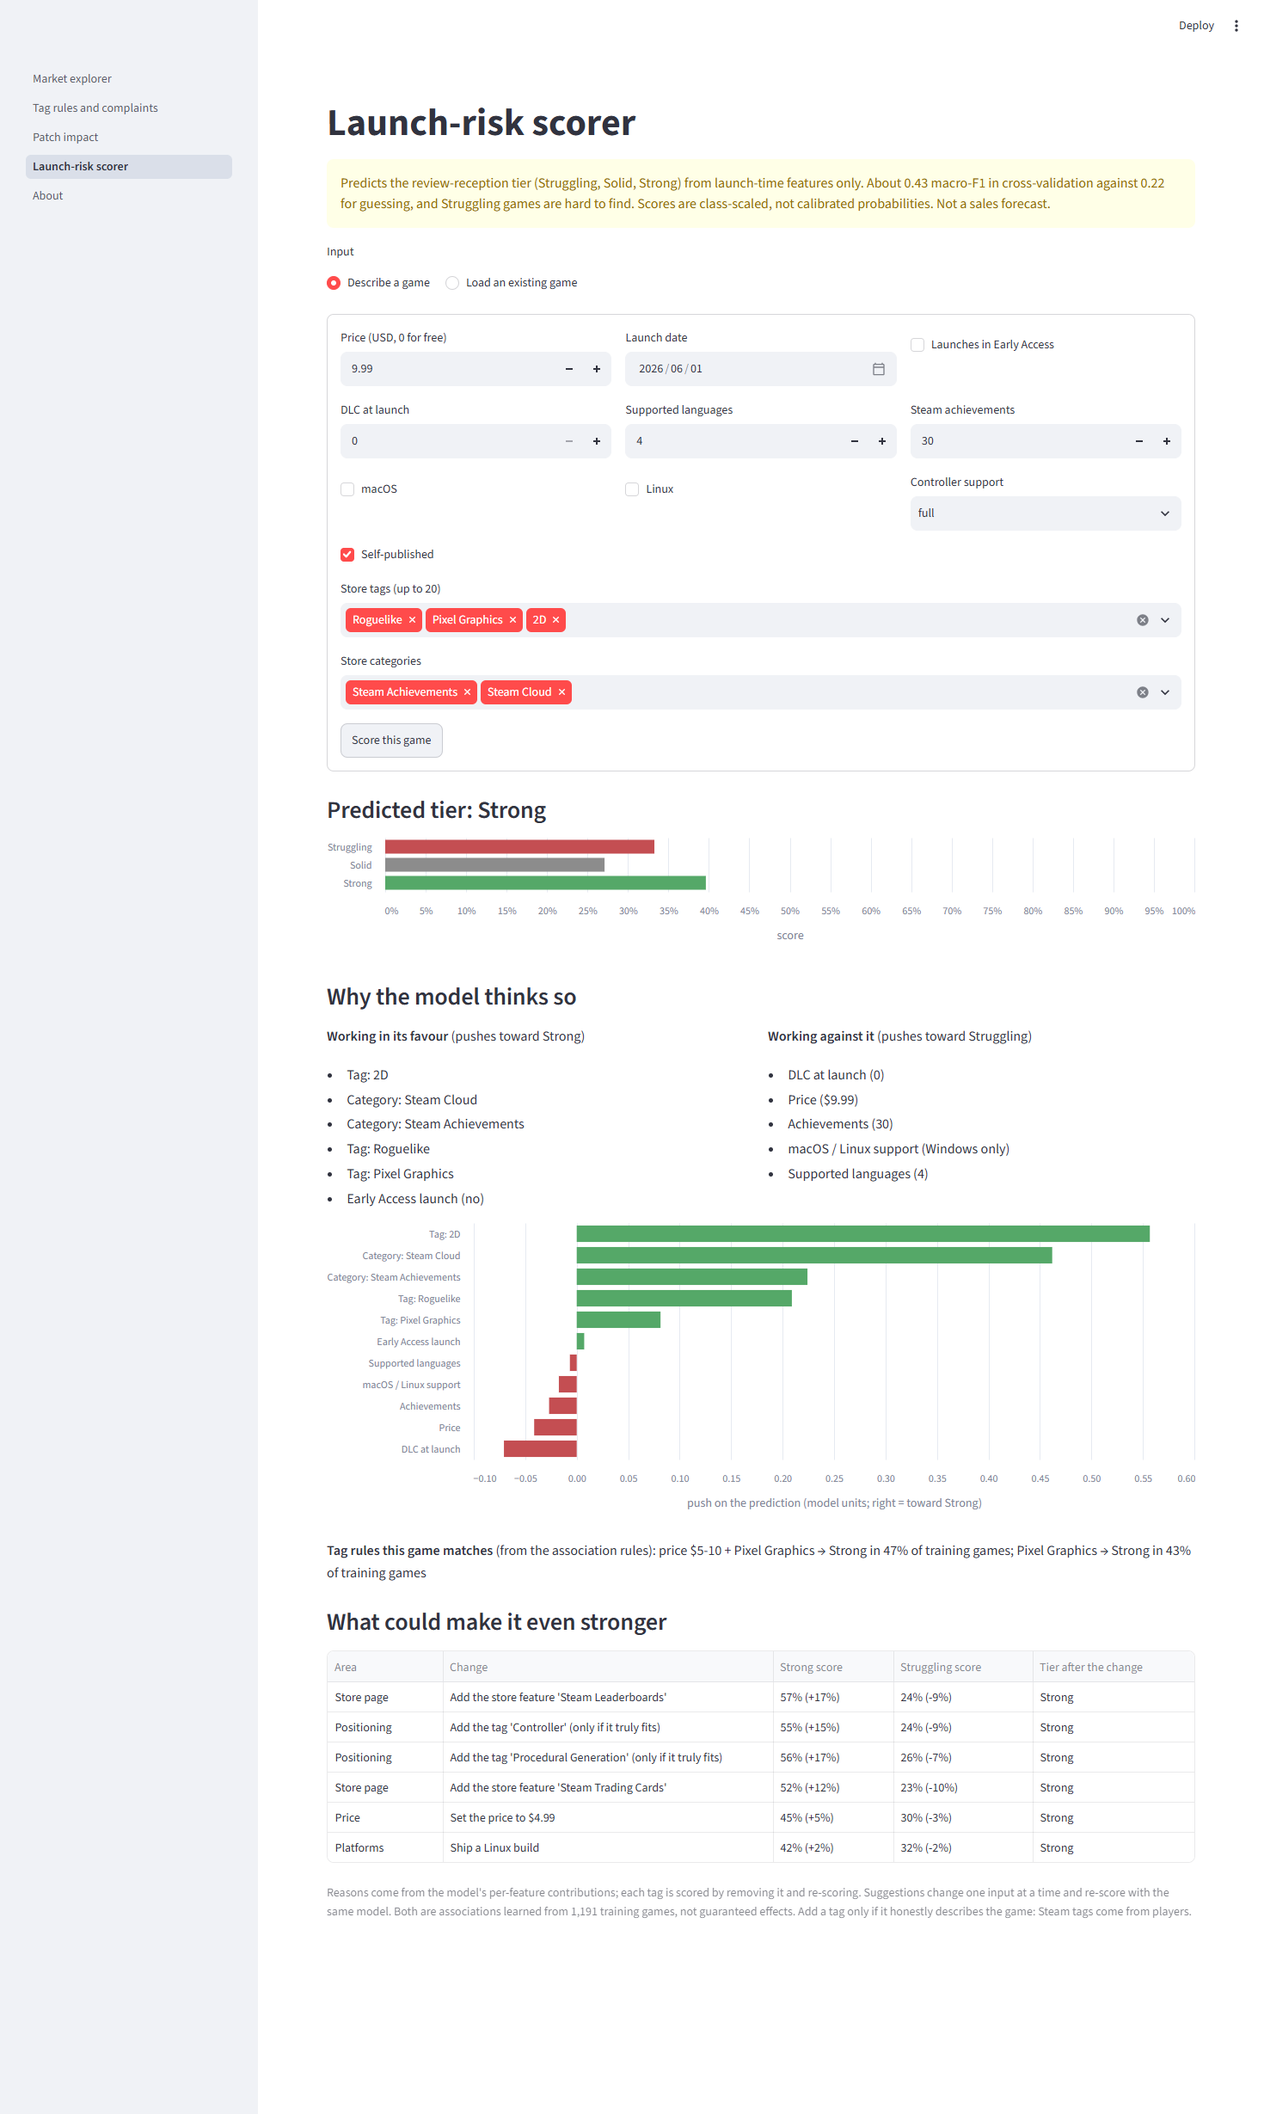
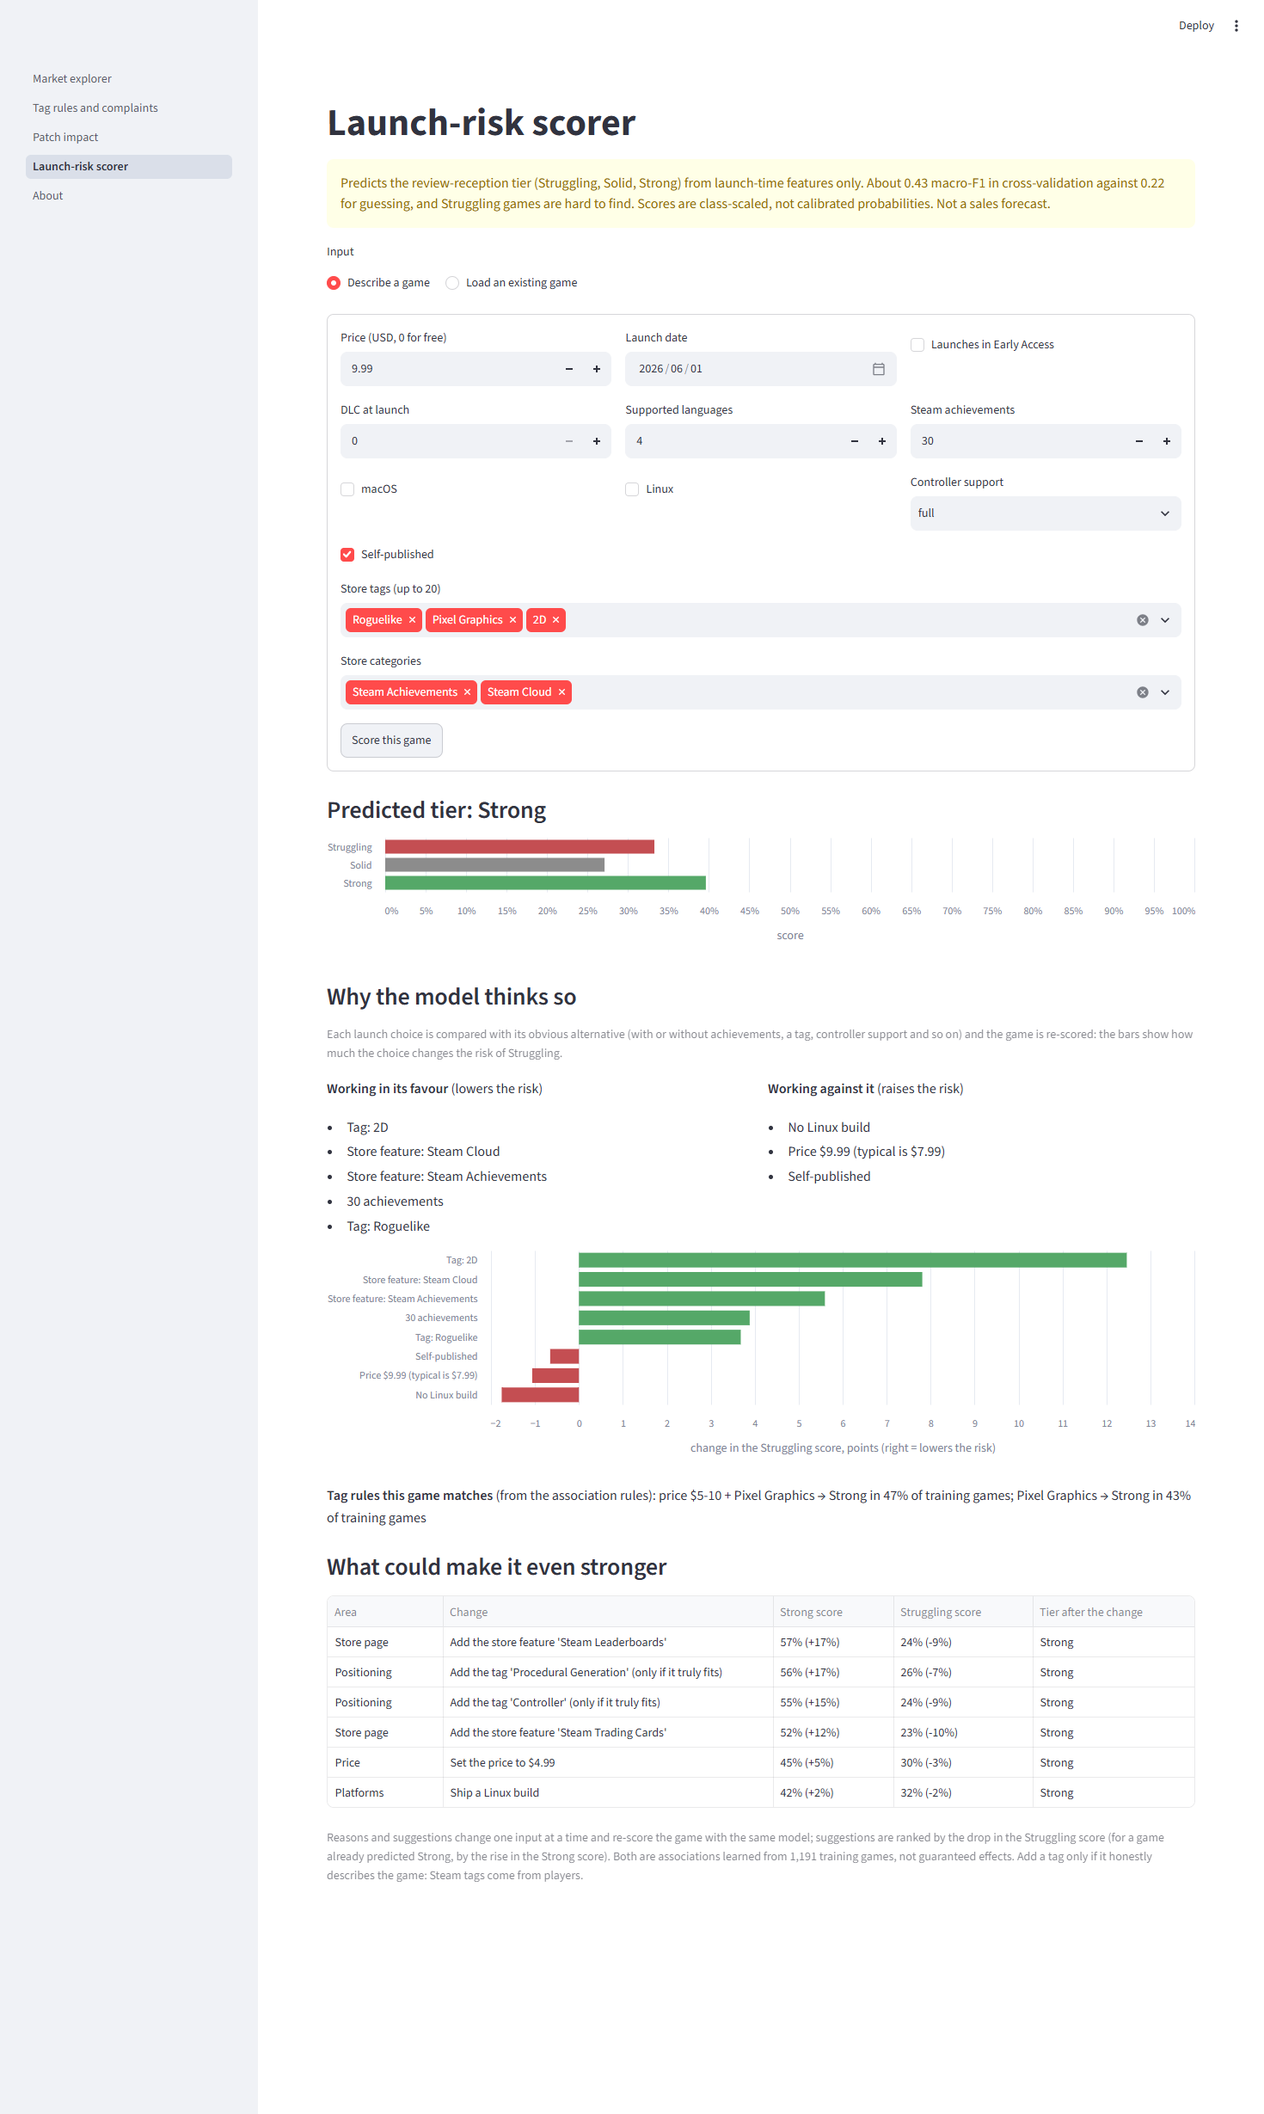
Scorer explanations: measure each choice by its effect on the Struggling risk
Each launch choice is now compared with its obvious alternative (with or without achievements,
controller support, a tag, ...) and re-scored; the effect is the change in the Struggling score.
The earlier Strong-minus-Struggling measure listed choices such as 30 achievements as harmful
because they move a game from Strong toward Solid while lowering its risk. Suggestions are ranked
by the drop in the Struggling score, or by the rise in the Strong score for a Strong game.
Dollar signs in factor names are escaped so Streamlit does not render them as maths.

diff --git a/src/dashboard/explain.py b/src/dashboard/explain.py
@@ -1,12 +1,14 @@
 """Explain a launch-risk prediction: why a game scores as it does, and which single changes would help.
 
 Review 2 feedback: the scorer showed only a tier. This module adds
-  explain(game)   the drivers of the prediction, from XGBoost's per-feature contributions, grouped into
-                  readable factors; store tags are scored one by one (remove the tag, re-score)
-  suggest(game)   single launch-time changes (price, languages, achievements, controller, platforms,
-                  categories, tags) re-scored by the same model and ranked by how much they raise
-                  the Strong score and lower the Struggling score
-Both are associations learned from 1,191 training games, not causal effects.
+  explain(game)          each launch choice compared with its obvious alternative (achievements or none,
+                         controller support or none, a tag or not, ...): the change in the Struggling score
+                         the scorer shows, re-scored by the same model
+  suggest(game, tier)    single launch-time changes ranked by how much they lower the Struggling score
+                         (or, for a game already predicted Strong, raise the Strong score)
+The scorer is about launch risk, so effects are measured on the Struggling score. A choice can lower that
+risk and still move a game from Strong toward Solid; measuring "Strong minus Struggling" made such choices
+look harmful. Both functions report associations learned from 1,191 training games, not causal effects.
 """
 from __future__ import annotations
 
@@ -21,17 +23,6 @@ from src.dashboard.featurize import _items, featurize_game
 from src.dashboard.risk import ROOT, TIER_NAMES, load_scorer
 
 STRUGGLING, STRONG = 0, 2
-GROUPS = {
-    "Price": ["price_usd", "price_tier", "is_free"],
-    "Launch timing": ["launch_year", "launch_quarter", "launch_before_window"],
-    "Early Access launch": ["launched_in_early_access"],
-    "DLC at launch": ["n_dlc"],
-    "Supported languages": ["n_supported_languages"],
-    "Achievements": ["n_achievements", "has_achievements"],
-    "macOS / Linux support": ["platform_mac", "platform_linux"],
-    "Controller support": ["controller_support_level"],
-    "Self-published": ["self_published"],
-}
 EXTRA_CATEGORIES = ["Steam Achievements", "Steam Cloud", "Steam Trading Cards", "Steam Leaderboards", "Full controller support", "Remote Play Together"]
 
 
@@ -40,68 +31,71 @@ def _rule_tags() -> list[str]:
     return sorted({t[4:] for s in r.antecedents_str for t in s.split(" + ") if t.startswith("tag:")})
 
 
-def _frame(games: list[dict[str, Any]], features: list[str]) -> pd.DataFrame:
-    return pd.DataFrame([featurize_game(g) for g in games]).loc[:, features].astype(float)
+def _median_price() -> float:
+    g = pd.read_csv(ROOT / "data" / "dashboard" / "games.csv", usecols=["price_usd"])
+    return float(g.loc[g.price_usd > 0, "price_usd"].median())
 
 
-def _scores(model, meta, x: pd.DataFrame) -> np.ndarray:
-    """Class-scaled, normalised scores, exactly as the scorer shows them."""
-    p = model.predict(xgb.DMatrix(x, feature_names=meta["feature_columns"])) * np.asarray(meta["class_scales"], dtype=float)
+def _scores(games: list[dict[str, Any]]) -> np.ndarray:
+    """Class-scaled, normalised scores, exactly as the scorer shows them (one row per game)."""
+    model, meta = load_scorer()
+    feats = meta["feature_columns"]
+    x = pd.DataFrame([featurize_game(g) for g in games]).loc[:, feats].astype(float)
+    p = model.predict(xgb.DMatrix(x, feature_names=feats)) * np.asarray(meta["class_scales"], dtype=float)
     return p / p.sum(axis=1, keepdims=True)
 
 
-def _margin_gap(model, meta, x: pd.DataFrame) -> np.ndarray:
-    """Raw-score gap Strong minus Struggling: positive pushes toward Strong."""
-    m = model.predict(xgb.DMatrix(x, feature_names=meta["feature_columns"]), output_margin=True)
-    return m[:, STRONG] - m[:, STRUGGLING]
+def _early_access(game: dict[str, Any]) -> bool:
+    rel = pd.to_datetime(game.get("release_date"), errors="coerce")
+    return not pd.isna(rel) and (rel - pd.Timestamp(game["launch_date"])).days > 7
 
 
-def _describe(name: str, f: dict[str, float]) -> str:
-    return {
-        "Price": "free" if f["is_free"] else f"${f['price_usd']:.2f}",
-        "Launch timing": f"{int(f['launch_year'])} Q{int(f['launch_quarter'])}",
-        "Early Access launch": "yes" if f["launched_in_early_access"] else "no",
-        "DLC at launch": f"{int(f['n_dlc'])}",
-        "Supported languages": f"{int(f['n_supported_languages'])}",
-        "Achievements": f"{int(f['n_achievements'])}",
-        "macOS / Linux support": ", ".join(n for n, k in (("macOS", "platform_mac"), ("Linux", "platform_linux")) if f[k]) or "Windows only",
-        "Controller support": {2: "full", 1: "partial"}.get(int(f["controller_support_level"]), "none"),
-        "Self-published": "yes" if f["self_published"] else "no",
-    }.get(name, "")
+def _alternatives(game: dict[str, Any]) -> list[tuple[str, str, dict[str, Any]]]:
+    """(factor as it stands, kind, the game with the obvious alternative instead)."""
+    out = []
 
+    def alt(label, kind, **changes):
+        g = copy.deepcopy(game); g.update(changes); out.append((label, kind, g))
 
-def explain(game: dict[str, Any], max_tags: int = 20) -> pd.DataFrame:
-    """Drivers of the prediction. effect > 0 pushes toward Strong, < 0 toward Struggling (raw-score units)."""
-    model, meta = load_scorer()
-    feats = meta["feature_columns"]
-    x = _frame([game], feats)
-    contrib = model.predict(xgb.DMatrix(x, feature_names=feats), pred_contribs=True)[0]       # (3 classes, features + bias)
-    gap = contrib[STRONG, :-1] - contrib[STRUGGLING, :-1]
-    by_name = dict(zip(feats, gap))
-    f = x.iloc[0].to_dict()
-    rows = [{"factor": g, "value": _describe(g, f), "effect": float(sum(by_name[c] for c in cols)), "kind": "store setting"} for g, cols in GROUPS.items()]
-
-    # store tags and categories: leave one out and re-score, so each tag gets its own effect
-    base = _margin_gap(model, meta, x)[0]
-    items = [("tags", t) for t in _items(game.get("tags"))[:max_tags]] + [("categories", c) for c in _items(game.get("categories"))]
-    if items:
-        variants = []
-        for field, item in items:
-            g = copy.deepcopy(game)
-            g[field] = ";".join(i for i in _items(game.get(field)) if i != item)
-            variants.append(g)
-        gaps = _margin_gap(model, meta, _frame(variants, feats))
-        rows += [{"factor": f"{'Tag' if field == 'tags' else 'Category'}: {item}", "value": "present", "effect": float(base - g_), "kind": field}
-                 for (field, item), g_ in zip(items, gaps)]
-    out = pd.DataFrame(rows)
-    out = out[out.effect.abs() > 1e-3].sort_values("effect", ascending=False).reset_index(drop=True)
+    ach = int(game.get("n_achievements") or 0)
+    alt(f"{ach} achievements" if ach else "No achievements", "setting", n_achievements=0 if ach else 30)
+    ctrl = str(game.get("controller_support") or "none").lower()
+    alt(f"{ctrl.capitalize()} controller support" if ctrl in ("full", "partial") else "No controller support", "setting",
+        controller_support="none" if ctrl in ("full", "partial") else "full")
+    langs = int(game.get("n_supported_languages") or 1)
+    alt(f"{langs} supported languages" if langs > 1 else "Only one language", "setting", n_supported_languages=1 if langs > 1 else 8)
+    alt("macOS build" if game.get("platform_mac") else "No macOS build", "setting", platform_mac=not game.get("platform_mac"))
+    alt("Linux build" if game.get("platform_linux") else "No Linux build", "setting", platform_linux=not game.get("platform_linux"))
+    if int(game.get("n_dlc") or 0) > 0:
+        alt(f"{int(game['n_dlc'])} DLC at launch", "setting", n_dlc=0)
+    if _early_access(game):
+        alt("Early Access launch", "setting", release_date=str(pd.Timestamp(game["launch_date"]).date()))
+    price, med = float(game.get("price_usd") or 0), _median_price()
+    if abs(price - med) > 0.5:
+        alt("Free to play" if price == 0 else f"Price ${price:.2f} (typical is ${med:.2f})", "setting", price_usd=med, is_free=False)
+    self_pub = bool(set(_items(game.get("developers"))) & set(_items(game.get("publishers"))))
+    alt("Self-published" if self_pub else "Has a publisher", "setting", publishers="publisher" if self_pub else game.get("developers"))
+    for field, word in (("tags", "Tag"), ("categories", "Store feature")):
+        items = _items(game.get(field))
+        for it in items:
+            alt(f"{word}: {it}", field, **{field: ";".join(i for i in items if i != it)})
     return out
 
 
-def suggest(game: dict[str, Any], top: int = 6) -> pd.DataFrame:
-    """Single launch-time changes ranked by the gain in (Strong score minus Struggling score)."""
-    model, meta = load_scorer()
-    feats = meta["feature_columns"]
+def explain(game: dict[str, Any]) -> pd.DataFrame:
+    """effect = Struggling score with the alternative minus the score as it stands (percentage points).
+    Positive: the game's current choice lowers the risk of Struggling (in its favour)."""
+    alts = _alternatives(game)
+    s = _scores([game] + [g for _, _, g in alts])
+    base = s[0, STRUGGLING]
+    rows = [{"factor": label, "kind": kind, "effect": float(sc[STRUGGLING] - base)} for (label, kind, _), sc in zip(alts, s[1:])]
+    out = pd.DataFrame(rows)
+    return out[out.effect.abs() >= 0.005].sort_values("effect", ascending=False).reset_index(drop=True)
+
+
+def suggest(game: dict[str, Any], tier: str, top: int = 6) -> pd.DataFrame:
+    """Single launch-time changes. For a game predicted Strong, ranked by the rise in the Strong score;
+    otherwise by the fall in the Struggling score."""
     tags, cats = _items(game.get("tags")), _items(game.get("categories"))
     cands: list[tuple[str, str, dict[str, Any]]] = []
 
@@ -116,20 +110,16 @@ def suggest(game: dict[str, Any], top: int = 6) -> pd.DataFrame:
     for n in (8, 12, 16):
         if n > langs:
             add("Localisation", f"Support {n} languages (now {langs})", n_supported_languages=n); break
-    ach = int(game.get("n_achievements") or 0)
-    if ach < 20:
-        add("Content", f"Add Steam achievements (about 30; now {ach})", n_achievements=30)
-    ctrl = str(game.get("controller_support") or "none").lower()
-    if ctrl != "full":
+    if int(game.get("n_achievements") or 0) < 20:
+        add("Content", f"Add Steam achievements (about 30; now {int(game.get('n_achievements') or 0)})", n_achievements=30)
+    if str(game.get("controller_support") or "none").lower() != "full":
         add("Controls", "Add full controller support", controller_support="full")
     if not game.get("platform_mac"):
         add("Platforms", "Ship a macOS build", platform_mac=True)
     if not game.get("platform_linux"):
         add("Platforms", "Ship a Linux build", platform_linux=True)
-    launch = pd.Timestamp(game["launch_date"])
-    early = not pd.isna(pd.to_datetime(game.get("release_date"), errors="coerce")) and (pd.Timestamp(game["release_date"]) - launch).days > 7
-    if early:
-        add("Launch", "Launch as a full release instead of Early Access", release_date=str(launch.date()))
+    if _early_access(game):
+        add("Launch", "Launch as a full release instead of Early Access", release_date=str(pd.Timestamp(game["launch_date"]).date()))
     for c in EXTRA_CATEGORIES:
         if c not in cats:
             add("Store page", f"Add the store feature '{c}'", categories=";".join(cats + [c]))
@@ -140,17 +130,15 @@ def suggest(game: dict[str, Any], top: int = 6) -> pd.DataFrame:
             if t not in tags:
                 add("Positioning", f"Add the tag '{t}' (only if it truly fits)", tags=";".join(tags + [t]))
 
-    x = _frame([game] + [g for _, _, g in cands], feats)
-    s = _scores(model, meta, x)
+    s = _scores([game] + [g for _, _, g in cands])
     base = s[0]
     rows = []
     for (kind, label, _), sc in zip(cands, s[1:]):
-        gain = (sc[STRONG] - sc[STRUGGLING]) - (base[STRONG] - base[STRUGGLING])
+        gain = (sc[STRONG] - base[STRONG]) if tier == "Strong" else (base[STRUGGLING] - sc[STRUGGLING])
         rows.append({"area": kind, "change": label, "strong": sc[STRONG], "struggling": sc[STRUGGLING],
                      "strong_delta": sc[STRONG] - base[STRONG], "struggling_delta": sc[STRUGGLING] - base[STRUGGLING],
                      "new_tier": TIER_NAMES[int(sc.argmax())], "gain": gain})
     out = pd.DataFrame(rows)
     out = out[out.gain > 0.005].sort_values("gain", ascending=False)
     # at most two suggestions per area keep the list varied (tags could otherwise fill it)
-    out = out.groupby("area", sort=False).head(2).head(top).reset_index(drop=True)
-    return out
+    return out.groupby("area", sort=False).head(2).head(top).reset_index(drop=True)

diff --git a/src/dashboard/app.py b/src/dashboard/app.py
@@ -240,22 +240,24 @@ def explain_prediction(game: dict, tier: str) -> None:
     """Review 2 feedback: say why a game looks strong or weak, and what would improve it."""
     from src.dashboard.explain import explain, suggest
     with st.spinner("Working out the reasons..."):
-        ex, sg = explain(game), suggest(game)
-    ex = ex[ex.factor != "Launch timing"]          # recent years only had less time to collect negatives; not a lever
+        ex, sg = explain(game), suggest(game, tier)
     st.subheader("Why the model thinks so")
+    st.caption("Each launch choice is compared with its obvious alternative (with or without achievements, a tag, controller support and so on) "
+               "and the game is re-scored: the bars show how much the choice changes the risk of Struggling.")
     good, bad = ex[ex.effect > 0].head(6), ex[ex.effect < 0].sort_values("effect").head(6)
     left, right = st.columns(2)
-    left.markdown("**Working in its favour** (pushes toward Strong)")
-    left.markdown("\n".join(f"- {r.factor}" + (f" ({r.value})" if r.value and r.value != "present" else "") for r in good.itertuples()) or "- nothing stands out")
-    right.markdown("**Working against it** (pushes toward Struggling)")
-    right.markdown("\n".join(f"- {r.factor}" + (f" ({r.value})" if r.value and r.value != "present" else "") for r in bad.itertuples()) or "- nothing stands out")
-    top = pd.concat([good, bad]).assign(direction=lambda d: d.effect.gt(0).map({True: "toward Strong", False: "toward Struggling"}))
+    left.markdown("**Working in its favour** (lowers the risk)")
+    left.markdown("\n".join(f"- {r.factor.replace('$', '\\$')}" for r in good.itertuples()) or "- nothing stands out")
+    right.markdown("**Working against it** (raises the risk)")
+    right.markdown("\n".join(f"- {r.factor.replace('$', '\\$')}" for r in bad.itertuples()) or "- nothing stands out")
+    top = pd.concat([good, bad]).assign(direction=lambda d: d.effect.gt(0).map({True: "lowers the risk", False: "raises the risk"}),
+                                        points=lambda d: 100 * d.effect)
     if len(top):
         st.altair_chart(alt.Chart(top).mark_bar().encode(
-            x=alt.X("effect:Q", title="push on the prediction (model units; right = toward Strong)"),
+            x=alt.X("points:Q", title="change in the Struggling score, points (right = lowers the risk)"),
             y=alt.Y("factor:N", sort="-x", title=None, axis=alt.Axis(labelOverlap=False, labelLimit=260)),
-            color=alt.Color("direction:N", scale=alt.Scale(domain=["toward Strong", "toward Struggling"], range=["#55A868", "#C44E52"]), legend=None),
-            tooltip=["factor", "value", alt.Tooltip("effect:Q", format="+.2f")]).properties(height=max(140, 32 * len(top))), width="stretch")
+            color=alt.Color("direction:N", scale=alt.Scale(domain=["lowers the risk", "raises the risk"], range=["#55A868", "#C44E52"]), legend=None),
+            tooltip=["factor", alt.Tooltip("points:Q", format="+.1f", title="points")]).properties(height=max(140, 32 * len(top))), width="stretch")
 
     tags = {t.strip() for t in str(game.get("tags") or "").split(";") if t.strip()}
     price = _price_item(float(game.get("price_usd") or 0))
@@ -275,8 +277,8 @@ def explain_prediction(game: dict, tier: str) -> None:
                             "Struggling score": sg.struggling.map("{:.0%}".format) + " (" + sg.struggling_delta.map("{:+.0%}".format) + ")"})
         st.dataframe(show[["area", "change", "Strong score", "Struggling score", "new_tier"]].rename(columns={"area": "Area", "change": "Change", "new_tier": "Tier after the change"}),
                      hide_index=True, width="stretch")
-    st.caption("Reasons come from the model's per-feature contributions; each tag is scored by removing it and re-scoring. Suggestions change one input at a time and re-score with "
-               "the same model. Both are associations learned from 1,191 training games, not guaranteed effects. Add a tag only if it honestly describes the game: Steam tags come from players.")
+    st.caption("Reasons and suggestions change one input at a time and re-score the game with the same model; suggestions are ranked by the drop in the Struggling score "
+               "(for a game already predicted Strong, by the rise in the Strong score). Both are associations learned from 1,191 training games, not guaranteed effects. Add a tag only if it honestly describes the game: Steam tags come from players.")
 
 
 # ------------------------------------------------------------------ page 5
